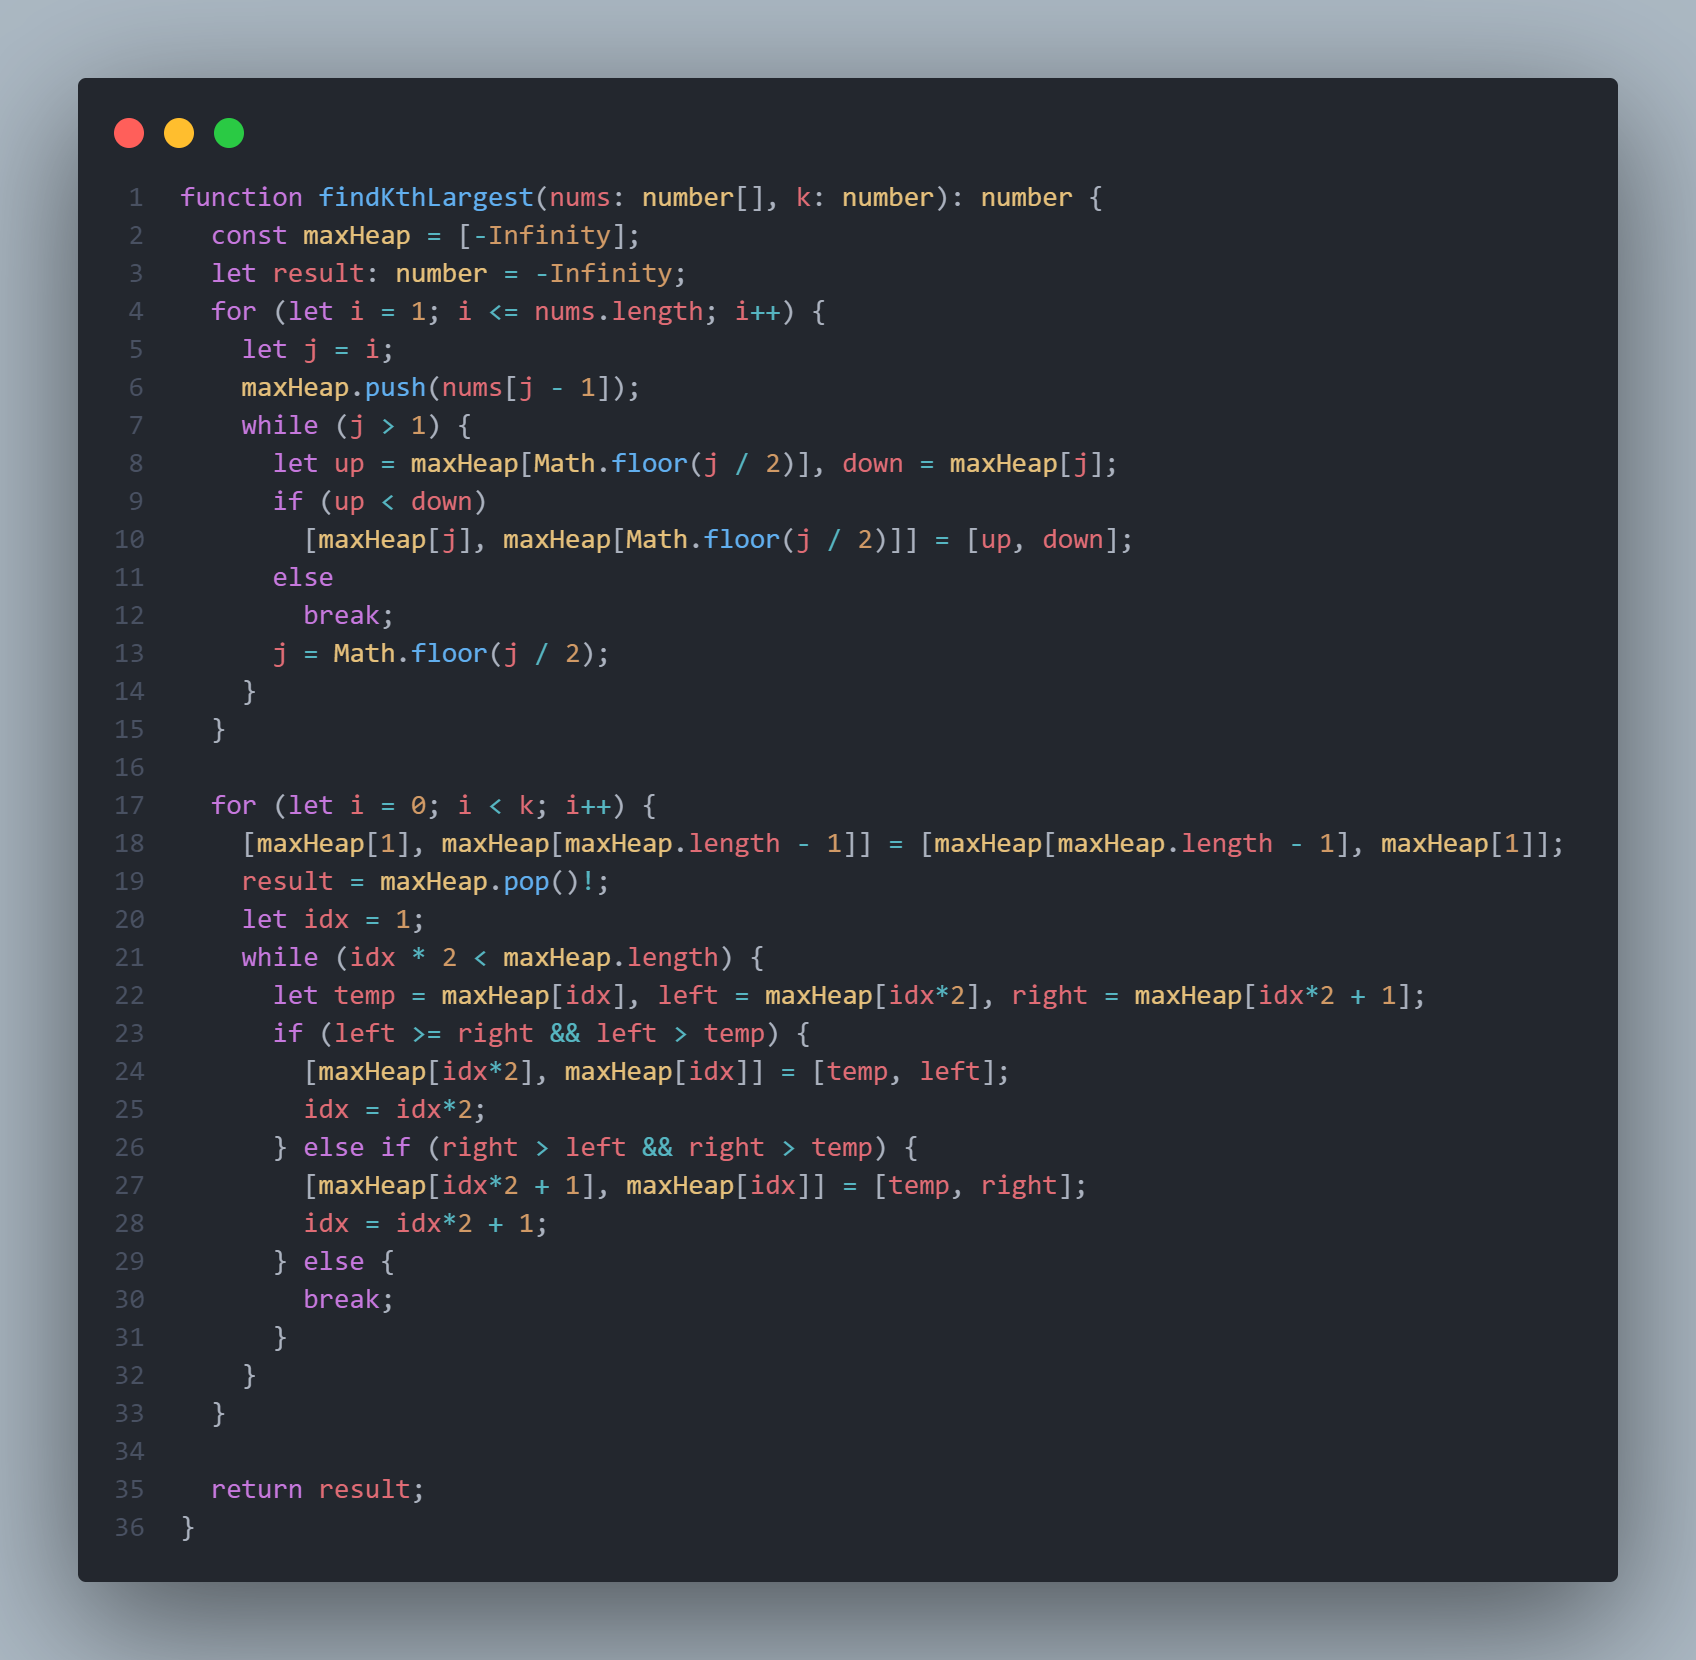
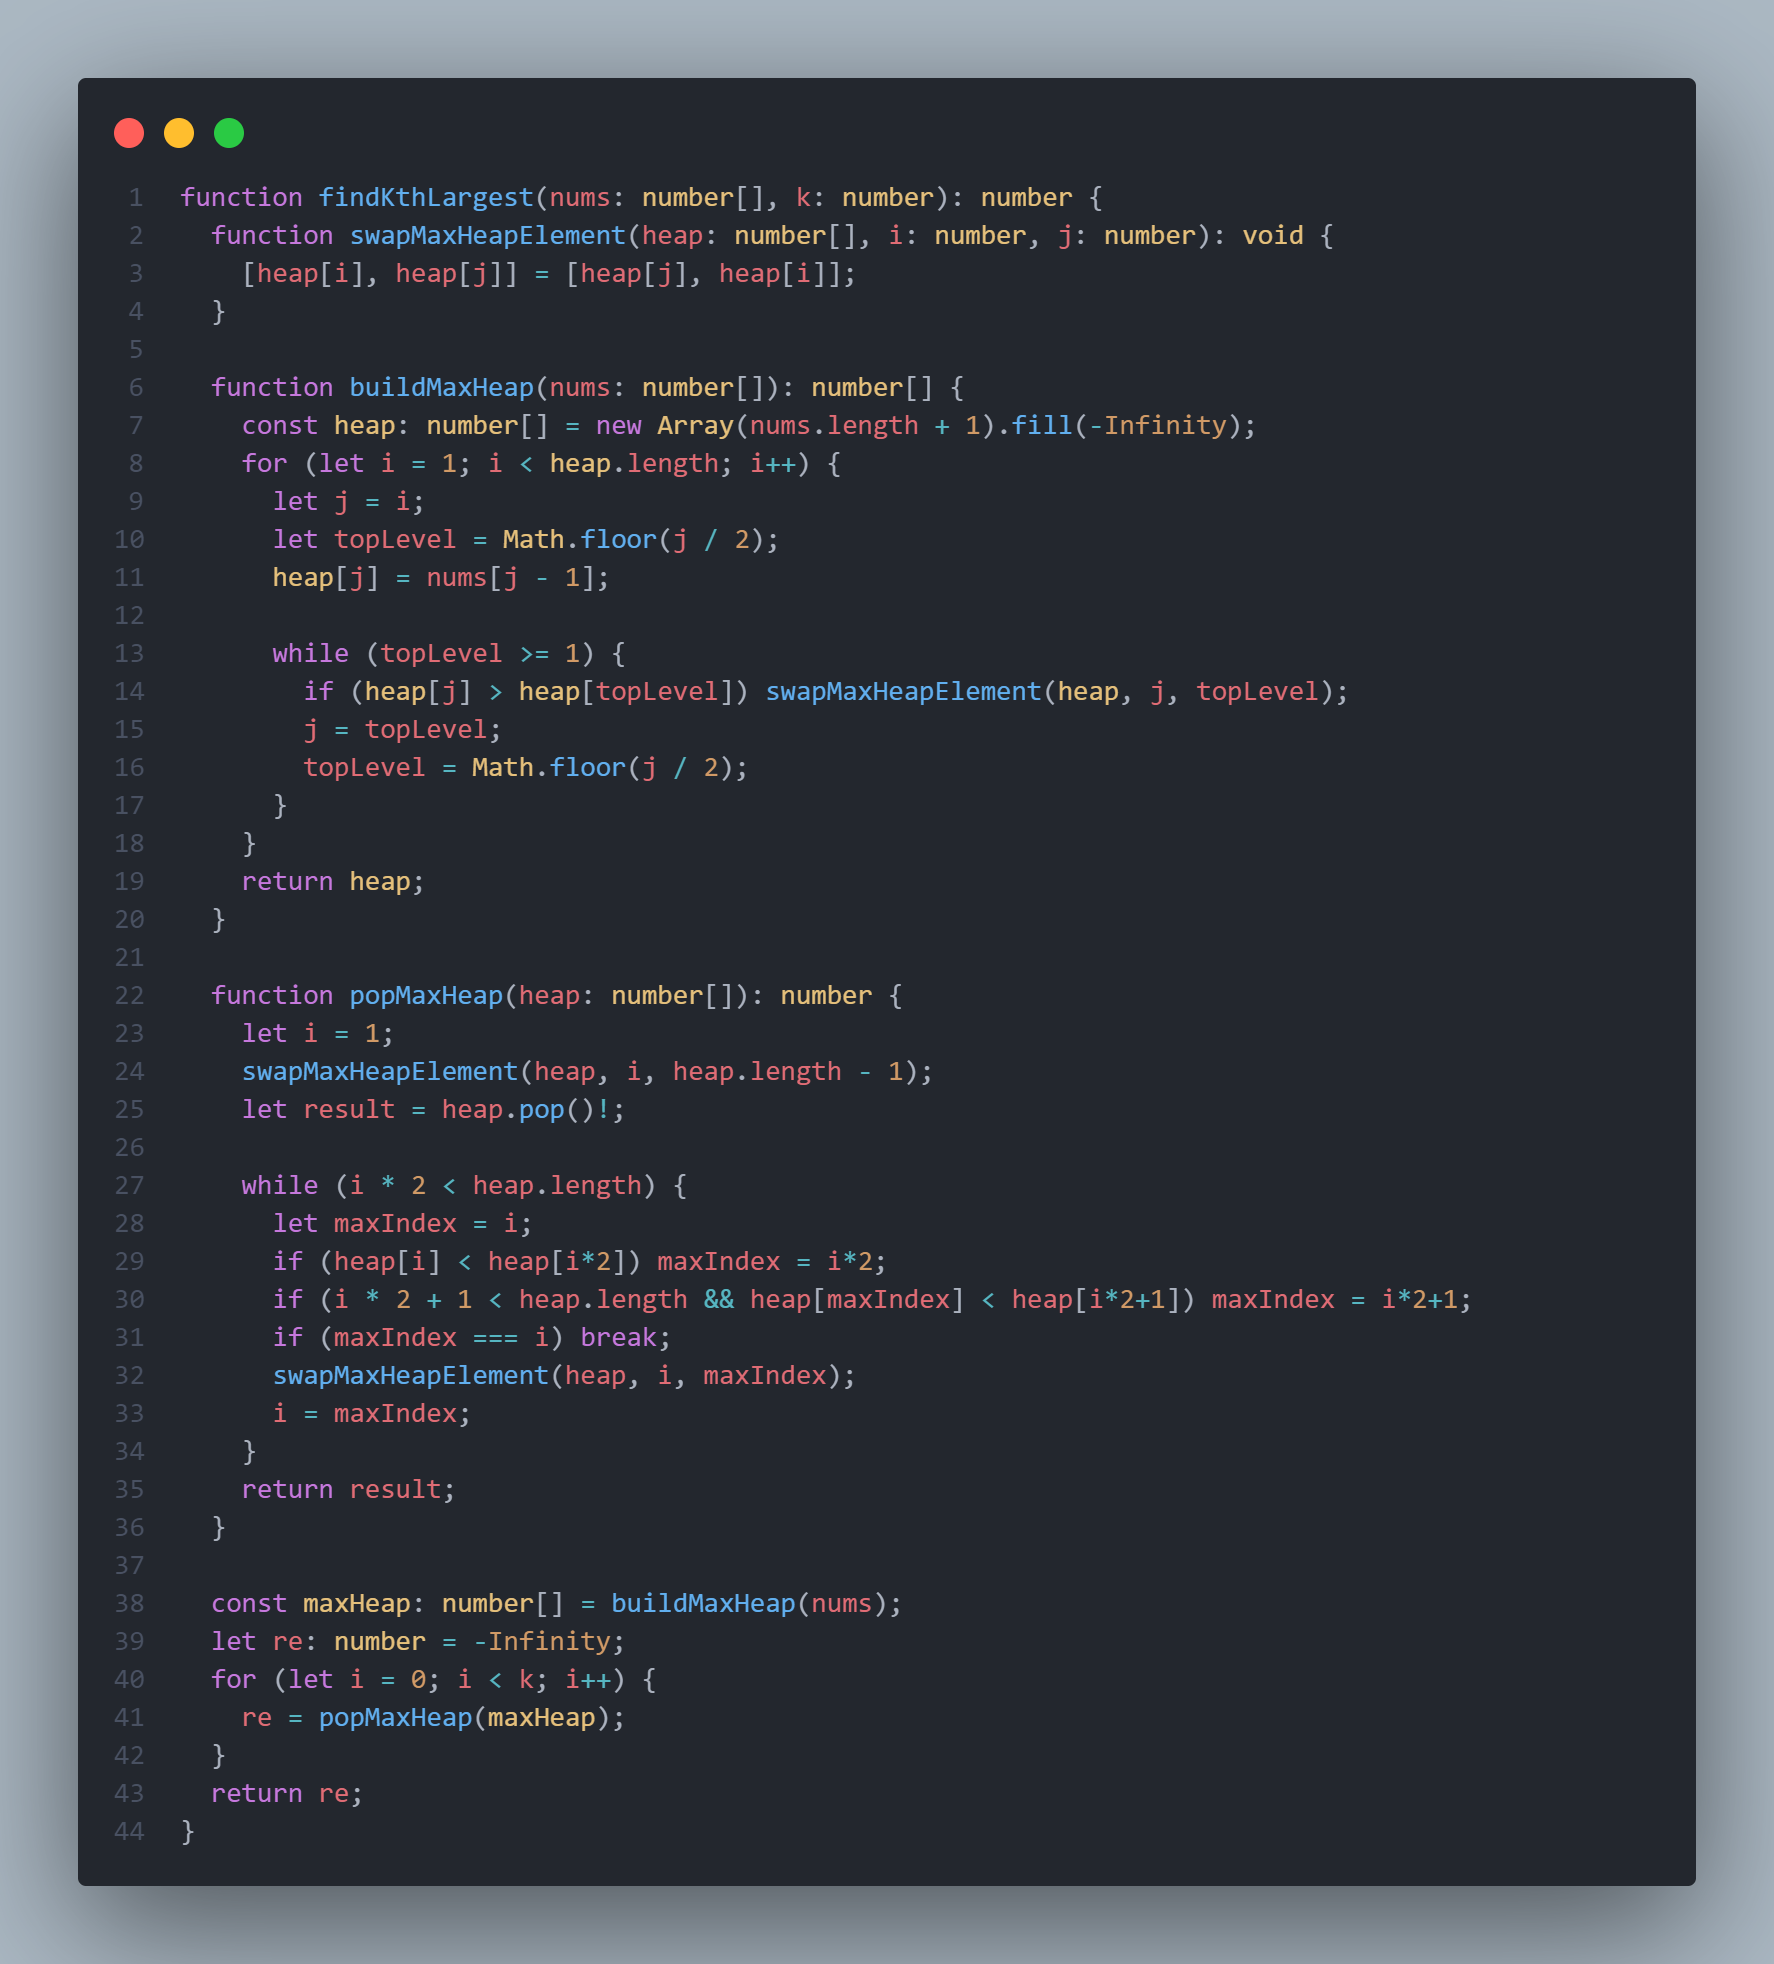
4/18

diff --git a/normal/215.ts b/normal/215.ts
@@ -1,74 +1,48 @@
-// function findKthLargest(nums: number[], k: number): number {
-//   if (nums.length === 1) return nums[0];
-//   const pivot = 0;
-//   for (let i = 1, j = nums.length - 1; i < j; ) {
-//     while (nums[pivot] < nums[j] && i <= j) {
-//       j--;
-//     }
-//     while (nums[pivot] >= nums[i] && i <= j) {
-//       i++;
-//     }
-//     console.log(nums)
-//     console.log('i =', i, ', j =', j, ', k = ', k);
-//     if (i > j) {
-//       [nums[pivot], nums[j]] = [nums[j], nums[pivot]];
-//       if (nums.length - j === k) {
-//         return nums[j];
-//       } else if (nums.length - j < k) {
-//         // console.log('send right');
-//         return findKthLargest(nums.slice(0, j), k - (nums.length - j));
-//       } else {
-//         // console.log('send left');
-//         return findKthLargest(nums.slice(j + 1), k);
-//       }
-//     } else {
-//       [nums[i], nums[j]] = [nums[j], nums[i]];
-//       i++;
-//       j--;
-//     }
-//   }
-// };
-
-// console.log(findKthLargest([1, 1, 1, 1, 1, 1, 1, 1], 6));
-// // console.log(findKthLargest([3, 2, 1, 5, 6, 4, 7, 0], 6));
-
 function findKthLargest(nums: number[], k: number): number {
-  const maxHeap = [-Infinity];
-  let result: number = -Infinity;
-  for (let i = 1; i <= nums.length; i++) {
-    let j = i;
-    maxHeap.push(nums[j - 1]);
-    while (j > 1) {
-      let up = maxHeap[Math.floor(j / 2)], down = maxHeap[j];
-      if (up < down)
-        [maxHeap[j], maxHeap[Math.floor(j / 2)]] = [up, down];
-      else 
-        break;
-      j = Math.floor(j / 2);
-    }
+  function swapMaxHeapElement(heap: number[], i: number, j: number): void {
+    [heap[i], heap[j]] = [heap[j], heap[i]];
   }
 
-  for (let i = 0; i < k; i++) {
-    [maxHeap[1], maxHeap[maxHeap.length - 1]] = [maxHeap[maxHeap.length - 1], maxHeap[1]];
-    result = maxHeap.pop()!;
-    let idx = 1;
-    while (idx * 2 < maxHeap.length) {
-      let temp = maxHeap[idx], left = maxHeap[idx*2], right = maxHeap[idx*2 + 1];
-      if (left >= right && left > temp) {
-        [maxHeap[idx*2], maxHeap[idx]] = [temp, left];
-        idx = idx*2;
-      } else if (right > left && right > temp) {
-        [maxHeap[idx*2 + 1], maxHeap[idx]] = [temp, right];
-        idx = idx*2 + 1;
-      } else {
-        break;
+  function buildMaxHeap(nums: number[]): number[] {
+    const heap: number[] = new Array(nums.length + 1).fill(-Infinity);
+    for (let i = 1; i < heap.length; i++) {
+      let j = i;
+      let topLevel = Math.floor(j / 2);
+      heap[j] = nums[j - 1];
+      
+      while (topLevel >= 1) {
+        if (heap[j] > heap[topLevel]) swapMaxHeapElement(heap, j, topLevel);
+        j = topLevel;
+        topLevel = Math.floor(j / 2);
       }
     }
+    return heap;
   }
-
-  return result;
+  
+  function popMaxHeap(heap: number[]): number {
+    let i = 1;
+    swapMaxHeapElement(heap, i, heap.length - 1);
+    let result = heap.pop()!;
+  
+    while (i * 2 < heap.length) {
+      let maxIndex = i;
+      if (heap[i] < heap[i*2]) maxIndex = i*2;
+      if (i * 2 + 1 < heap.length && heap[maxIndex] < heap[i*2+1]) maxIndex = i*2+1;
+      if (maxIndex === i) break;
+      swapMaxHeapElement(heap, i, maxIndex);
+      i = maxIndex;
+    }
+    return result;
+  }
+  
+  const maxHeap: number[] = buildMaxHeap(nums);
+  let re: number = -Infinity;
+  for (let i = 0; i < k; i++) {
+    re = popMaxHeap(maxHeap);
+  }
+  return re;
 }
 
-// console.log(findKthLargest([3,2,1,5,6,4], 2));
+console.log(findKthLargest([3, 2, 1, 5, 6, 4], 2));
 // console.log(findKthLargest([3,2,3,1,2,4,5,5,6], 4));
-console.log(findKthLargest([3,2,3,1,2,4,5,5,6,7,7,8,2,3,1,1,1,10,11,5,6,2,4,7,8,5,6], 20));
+// console.log(findKthLargest([3,2,3,1,2,4,5,5,6,7,7,8,2,3,1,1,1,10,11,5,6,2,4,7,8,5,6], 20));

diff --git a/normal/463.ts b/normal/463.ts
@@ -1,0 +1,26 @@
+function islandPerimeter(grid: number[][]): number {
+  function firstLand(): number[] {
+    for (let i = 0; i < grid.length; i++) {
+      for (let j = 0; j < grid[i].length; j++) {
+        if (grid[i][j] === 1) {
+          return [i, j];
+        }
+      }
+    }
+    return [-1, -1];
+  }
+
+  function dfs(i: number, j: number): number {
+    if (!grid[i] || !grid[i][j]) return 1;
+    if (grid[i][j] === 2) return 0;
+    
+    grid[i][j] = 2;
+    return dfs(i - 1, j) + dfs(i + 1, j) + dfs(i, j - 1) + dfs(i, j + 1);
+  }
+
+  let [i, j] = firstLand();
+  if (i === -1 && j === -1)
+    return 0;
+  else 
+    return dfs(i, j);
+};

diff --git a/normal/547.ts b/normal/547.ts
@@ -1,0 +1,24 @@
+function findCircleNum(isConnected: number[][]): number {
+  const visitedCity = new Array(isConnected.length).fill(false);
+  
+  function dfs (i: number): void {
+    visitedCity[i] = true;
+    for (let j = 0; j < isConnected[i].length; j++) {
+      if (isConnected[i][j] === 1 && !visitedCity[j]) {
+        dfs(j);
+      }
+    }
+  }
+  
+  let count = 0;
+  for (let i = 0; i < isConnected.length; i++) {
+    if (!visitedCity[i]){
+      dfs(i);
+      count++;
+    }
+  }
+
+  return count;
+};
+
+console.log(findCircleNum([[1,1,0],[1,1,0],[0,0,1]])); // 2
